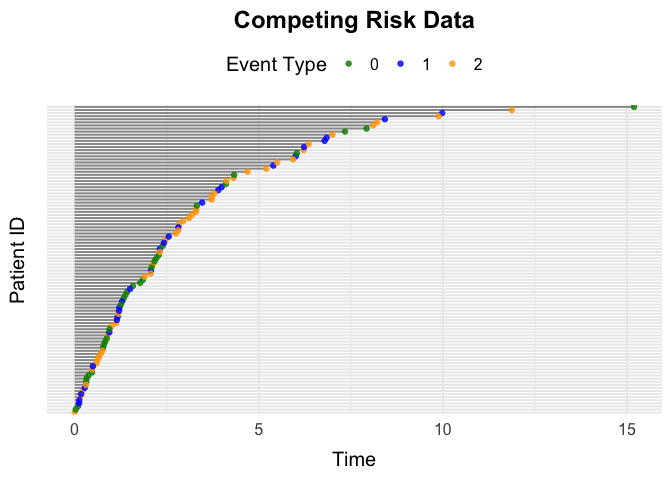
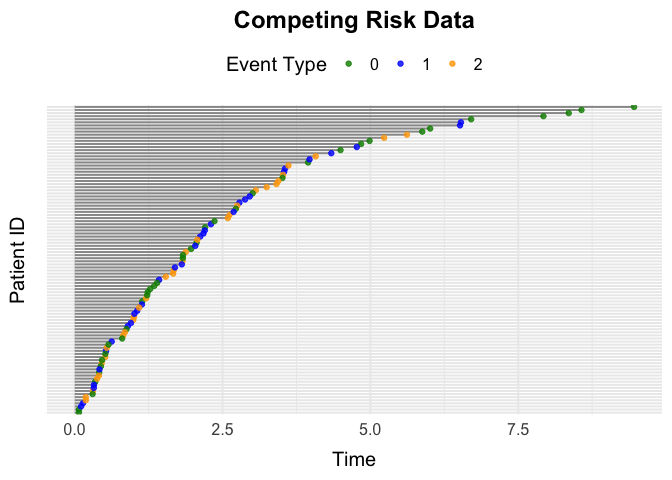
Updated readme

diff --git a/README.md b/README.md
@@ -93,19 +93,19 @@ head(data)
 #> Key: <ID>
 #>       ID      Time Delta        L0    A0    L1         L2    N0    N1    N2
 #>    <int>     <num> <num>     <num> <int> <num>      <num> <num> <num> <num>
-#> 1:     1  1.485037     1 0.0482511     1     0  0.9036369     0     0     0
-#> 2:     2  1.438677     3 0.2186699     0     0  1.0631460     0     0     0
-#> 3:     2  9.493541     2 0.2186699     0     0  1.0631460     0     0     0
-#> 4:     2 12.358772     2 0.2186699     0     0  1.0631460     0     0     1
-#> 5:     2 14.498814     0 0.2186699     0     0  1.0631460     0     0     2
-#> 6:     3  3.391032     0 0.5021846     0     0 -0.2266280     0     0     0
+#> 1:     1 5.8835851     1 0.0482511     1     0  0.9036369     0     1     0
+#> 2:     2 2.8236241     0 0.2186699     0     0  1.0631460     1     0     0
+#> 3:     3 2.0835582     2 0.5021846     0     0 -0.2266280     0     0     1
+#> 4:     3 2.0858978     1 0.5021846     0     0 -0.2266280     0     1     1
+#> 5:     4 2.9572284     0 0.4053148     1     0  1.2534397     1     0     0
+#> 6:     5 0.3670054     1 0.3986500     1     0 -0.9204445     0     1     0
 #>       N3    N4
 #>    <num> <num>
 #> 1:     0     0
 #> 2:     0     0
-#> 3:     1     0
-#> 4:     1     0
-#> 5:     1     0
+#> 3:     0     0
+#> 4:     0     0
+#> 5:     0     0
 #> 6:     0     0
 ```
 
@@ -118,10 +118,11 @@ intensities of the different counting processes. A tool for this is the
 Cox proportional hazards model. In order to fit a Cox proportional
 hazards model with the `survival` package, the data needs to be
 transformed into the so called format, this can be done by the function
-`IntFormatData`.
+`IntFormatData`, where you need to specify the indices of the columns
+that contain data regarding counting processes.
 
 ``` r
-data_int <- IntFormatData(data)
+data_int <- IntFormatData(data, N_cols = 8:12)
 ```
 
 Data in the format looks like
@@ -131,20 +132,20 @@ head(data_int)
 #> Key: <ID>
 #>       ID      Time Delta        L0    A0    L1         L2    N0    N1    N2
 #>    <int>     <num> <num>     <num> <int> <num>      <num> <num> <num> <num>
-#> 1:     1  1.485037     1 0.0482511     1     0  0.9036369     0     0     0
-#> 2:     2  1.438677     3 0.2186699     0     0  1.0631460     0     0     0
-#> 3:     2  9.493541     2 0.2186699     0     0  1.0631460     0     0     0
-#> 4:     2 12.358772     2 0.2186699     0     0  1.0631460     0     0     1
-#> 5:     2 14.498814     0 0.2186699     0     0  1.0631460     0     0     2
-#> 6:     3  3.391032     0 0.5021846     0     0 -0.2266280     0     0     0
-#>       N3    N4     k    tstart     tstop
-#>    <num> <num> <int>     <num>     <num>
-#> 1:     0     0     1  0.000000  1.485037
-#> 2:     0     0     1  0.000000  1.438677
-#> 3:     1     0     2  1.438677  9.493541
-#> 4:     1     0     3  9.493541 12.358772
-#> 5:     1     0     4 12.358772 14.498814
-#> 6:     0     0     1  0.000000  3.391032
+#> 1:     1 5.8835851     1 0.0482511     1     0  0.9036369     0     0     0
+#> 2:     2 2.8236241     0 0.2186699     0     0  1.0631460     0     0     0
+#> 3:     3 2.0835582     2 0.5021846     0     0 -0.2266280     0     0     0
+#> 4:     3 2.0858978     1 0.5021846     0     0 -0.2266280     0     0     1
+#> 5:     4 2.9572284     0 0.4053148     1     0  1.2534397     0     0     0
+#> 6:     5 0.3670054     1 0.3986500     1     0 -0.9204445     0     0     0
+#>       N3    N4     k   tstart     tstop
+#>    <num> <num> <int>    <num>     <num>
+#> 1:     0     0     1 0.000000 5.8835851
+#> 2:     0     0     1 0.000000 2.8236241
+#> 3:     0     0     1 0.000000 2.0835582
+#> 4:     0     0     2 2.083558 2.0858978
+#> 5:     0     0     1 0.000000 2.9572284
+#> 6:     0     0     1 0.000000 0.3670054
 ```
 
 The data contains the same information as the original data, only now
